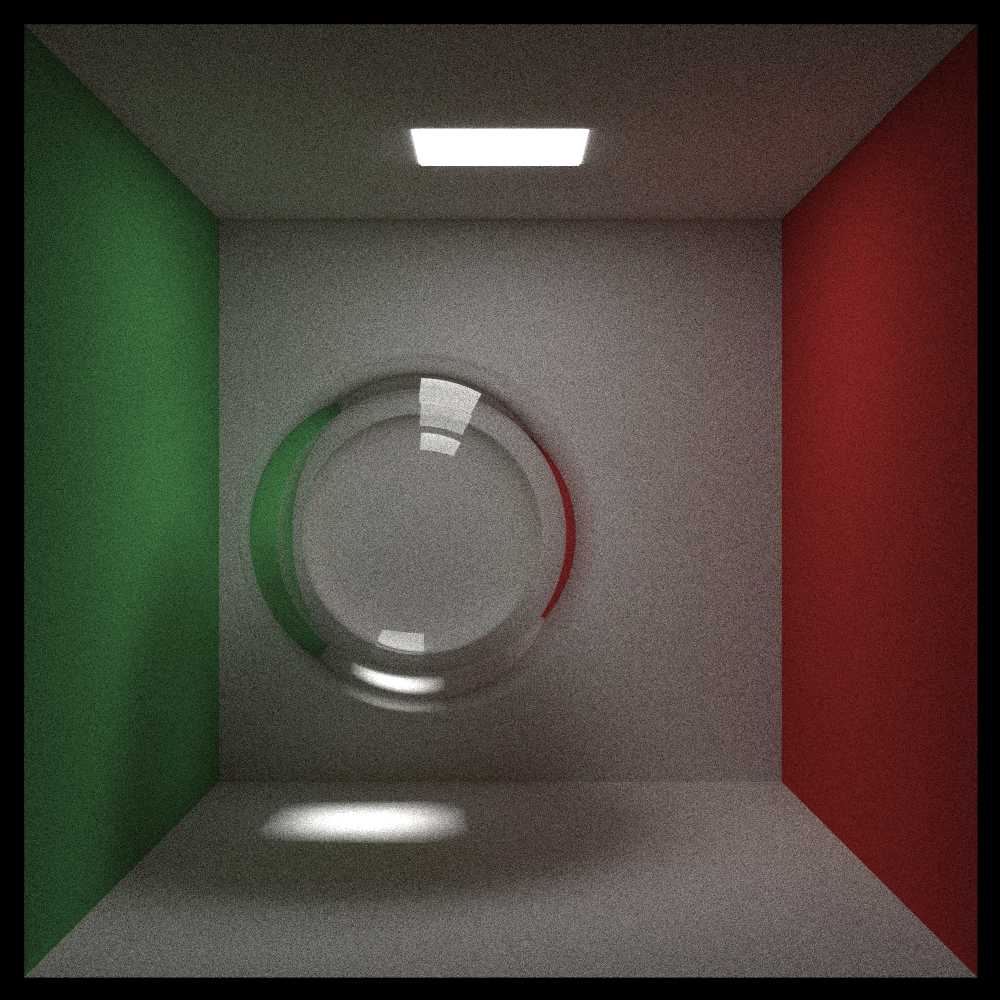
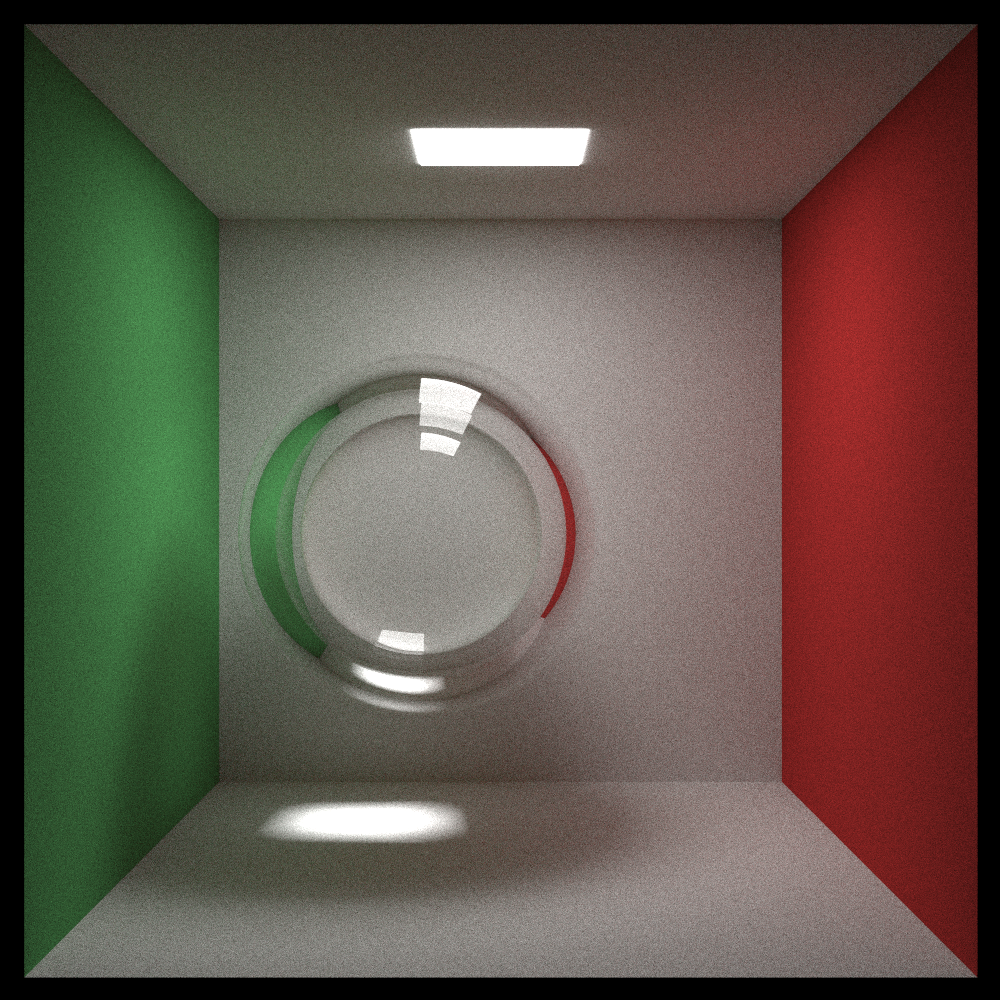
higher quality cornell box renders

diff --git a/src/main.rs b/src/main.rs
@@ -19,8 +19,8 @@ use v3::{P3, V3};
 pub const BG_COLOR: Color = Color::new(0.7, 0.8, 1.0); // default scene background color
 pub const ASPECT_RATIO: f64 = 16.0 / 10.0; // image aspect ratio
 pub const IMAGE_WIDTH: u16 = 1600; // image width in pixels
-pub const SAMPLES_PER_PIXEL: u16 = 1000; // number of random samples per pixel
-pub const MAX_BOUNCES: u8 = 60; // maximum number of ray bounces allowed
+pub const SAMPLES_PER_PIXEL: u16 = 2500; // number of random samples per pixel
+pub const MAX_BOUNCES: u8 = 80; // maximum number of ray bounces allowed
 
 macro_rules! p {
     ($x:expr, $y:expr, $z:expr) => {
@@ -42,7 +42,7 @@ fn main() {
     // let (hittables, camera) = perlin_spheres();
     // let (hittables, camera) = quads();
     // let (hittables, camera) = simple_light();
-    let (hittables, camera) = cornell_box();
+    let (hittables, camera) = cornell_box_glass_ball();
 
     eprintln!("Computing bvh tree...");
     // There is definitely a break even point in terms of the number of number of hittables
@@ -362,17 +362,21 @@ pub fn simple_light() -> (Vec<Hittable>, Camera) {
     (hittables, camera)
 }
 
-pub fn cornell_box() -> (Vec<Hittable>, Camera) {
+fn empty_cornell_box(white_mirror: bool) -> (Vec<Hittable>, Camera) {
     let mut hittables = Vec::default();
 
     // Ceiling light
-    let light = Material::diffuse_light(Color::grey(15.0));
+    let light = Material::diffuse_light(Color::grey(25.0));
     hittables.push(Quad::new(p!(343, 554, 332), v!(-130, 0, 0), v!(0, 0, -105), light).into());
 
     // Walls
     let red = Material::solid_color(Color::new(0.65, 0.05, 0.05));
     let green = Material::solid_color(Color::new(0.12, 0.45, 0.15));
-    let white = Material::solid_color(Color::grey(0.73));
+    let white = if white_mirror {
+        Material::metal(Color::grey(0.93), 0.0)
+    } else {
+        Material::solid_color(Color::grey(0.73))
+    };
 
     hittables.push(Quad::new(p!(555, 0, 0), v!(0, 555, 0), v!(0, 0, 555), green).into());
     hittables.push(Quad::new(p!(0, 0, 0), v!(0, 555, 0), v!(0, 0, 555), red).into());
@@ -380,14 +384,7 @@ pub fn cornell_box() -> (Vec<Hittable>, Camera) {
     hittables.push(Quad::new(p!(0, 0, 555), v!(555, 0, 0), v!(0, 555, 0), white.clone()).into());
     hittables.push(Quad::new(p!(555, 555, 555), v!(-555, 0, 0), v!(0, 0, -555), white).into());
 
-    // Contents
-    let air = Material::dielectric(1.0 / 1.33);
-    let glass = Material::dielectric(1.33);
-
-    hittables.push(Sphere::new(p!(343, 250, 342), 150.0, glass.clone()).into());
-    hittables.push(Sphere::new(p!(343, 250, 342), 120.0, air).into());
-    hittables.push(Sphere::new(p!(343, 250, 342), 100.0, glass).into());
-
+    // Camera
     let vertical_fov = 40.0;
     let look_from = p!(278, 278, -800);
     let look_at = p!(278, 278, 0);
@@ -408,6 +405,34 @@ pub fn cornell_box() -> (Vec<Hittable>, Camera) {
         defocus_angle,
         focus_dist,
     );
+
+    (hittables, camera)
+}
+
+pub fn cornell_box_glass_ball() -> (Vec<Hittable>, Camera) {
+    let (mut hittables, camera) = empty_cornell_box(false);
+
+    // Contents
+    let air = Material::dielectric(1.0 / 1.33);
+    let glass = Material::dielectric(1.33);
+
+    hittables.push(Sphere::new(p!(343, 250, 342), 150.0, glass.clone()).into());
+    hittables.push(Sphere::new(p!(343, 250, 342), 120.0, air).into());
+    hittables.push(Sphere::new(p!(343, 250, 342), 100.0, glass).into());
+
+    (hittables, camera)
+}
+
+pub fn mirror_cornell_box_glass_ball() -> (Vec<Hittable>, Camera) {
+    let (mut hittables, camera) = empty_cornell_box(true);
+
+    // Contents
+    let air = Material::dielectric(1.0 / 1.33);
+    let glass = Material::dielectric(1.33);
+
+    hittables.push(Sphere::new(p!(343, 250, 342), 150.0, glass.clone()).into());
+    hittables.push(Sphere::new(p!(343, 250, 342), 120.0, air).into());
+    hittables.push(Sphere::new(p!(343, 250, 342), 100.0, glass).into());
 
     (hittables, camera)
 }
